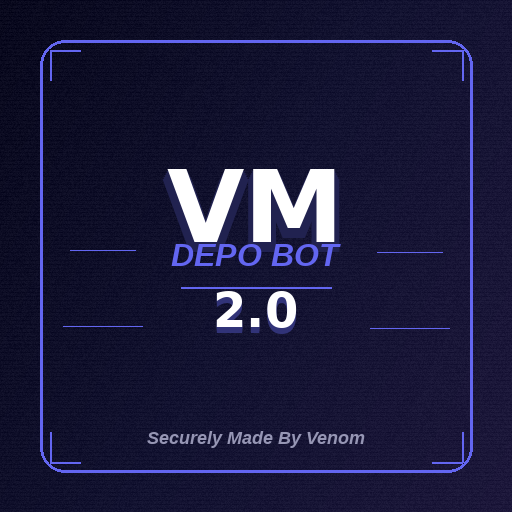
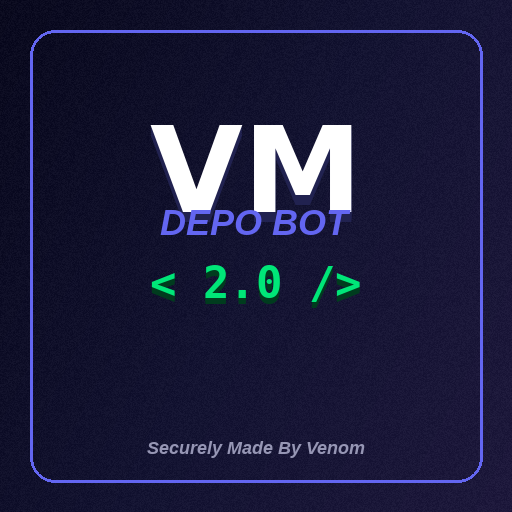
Update profile picture with robotic/coding style 2.0 font

Changed region(s): [[0.0312, 0.0312, 0.9688, 0.9688], [0.2812, 0.2188, 0.7188, 0.6562]]

diff --git a/generate_banners.py b/generate_banners.py
@@ -238,18 +238,18 @@ def create_profile_picture():
     draw.text((sub_x, sub_y), subtitle, font=subtitle_font, fill=accent_color)
     
     try:
-        version_font = ImageFont.truetype("/usr/share/fonts/truetype/dejavu/DejaVuSans-Bold.ttf", 48)
+        version_font = ImageFont.truetype("/usr/share/fonts/truetype/dejavu/DejaVuSansMono-Bold.ttf", 52)
     except:
         version_font = ImageFont.load_default()
-    version_text = "2.0"
+    version_text = "< 2.0 />"
     ver_bbox = draw.textbbox((0, 0), version_text, font=version_font)
     ver_width = ver_bbox[2] - ver_bbox[0]
     ver_x = (size - ver_width) // 2
     ver_y = sub_y + 45
     for offset in range(6, 0, -2):
-        glow_color = (accent_color[0]//2, accent_color[1]//2, accent_color[2]//2)
-        draw.text((ver_x, ver_y + offset), version_text, font=version_font, fill=glow_color)
-    draw.text((ver_x, ver_y), version_text, font=version_font, fill=(255, 255, 255))
+        glow_color = (0, 255, 100)
+        draw.text((ver_x, ver_y + offset), version_text, font=version_font, fill=(0, glow_color[1]//4, glow_color[2]//4))
+    draw.text((ver_x, ver_y), version_text, font=version_font, fill=(0, 255, 150))
     
     line_y = sub_y + 50
     line_width = 150
